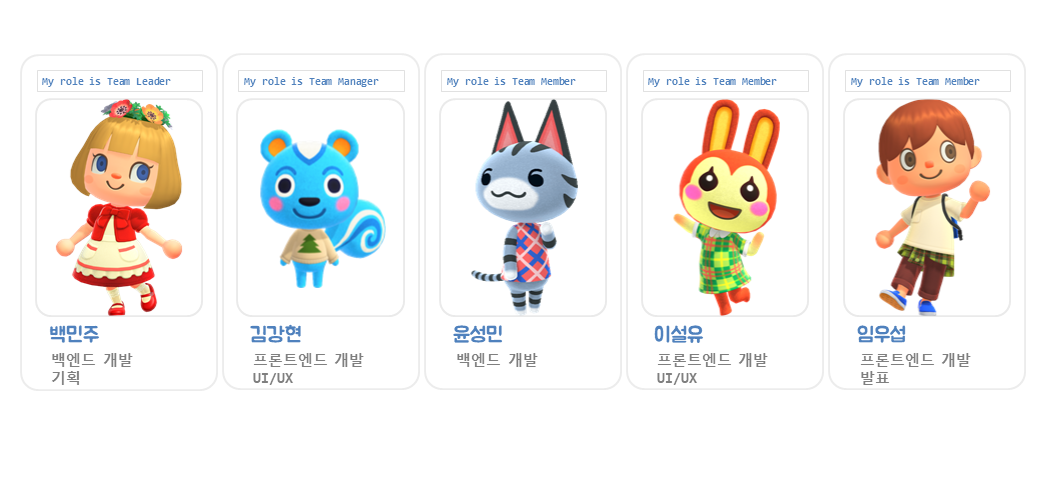
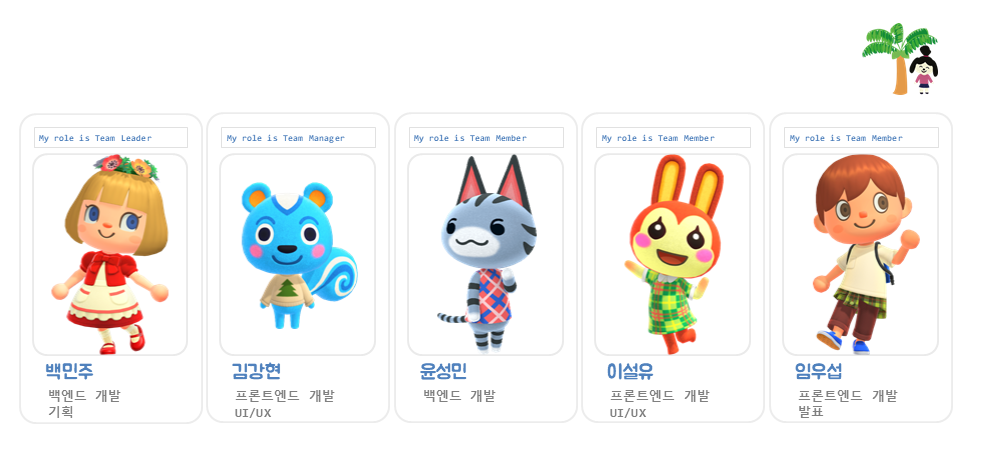
[20200514] Update | 프로젝트개요_설유.md (설유)

diff --git a/프로젝트 개요_설유.md b/프로젝트 개요_설유.md
@@ -36,8 +36,6 @@
 
  4) :moneybag: 소비자/시장에 줄 수 있는 가치
 
-![:)](./imgs/야자수와동물.png)
-
 * 더 많은 플레이어와 소통할 수 있는 공간 제공
 * 원하는 정보를 손쉽게 얻을 수 있다
 * 자신의 성과를 자랑할 수 있는 공간 제공
